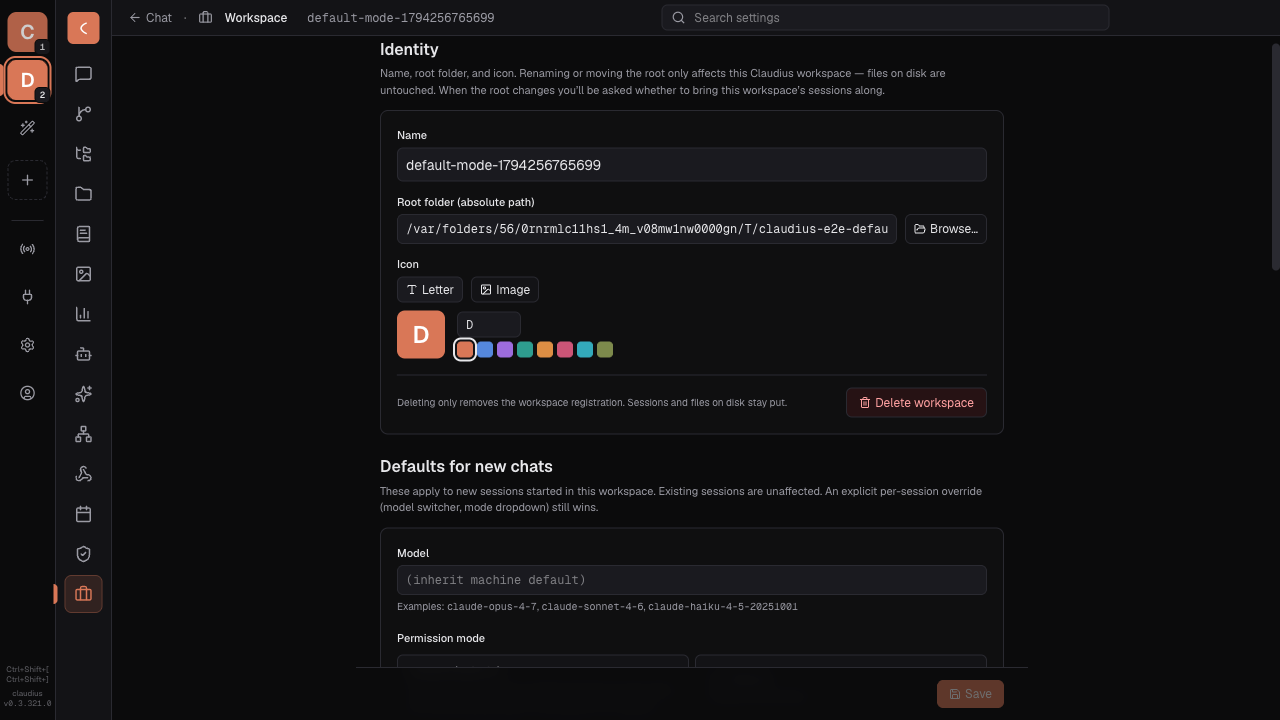
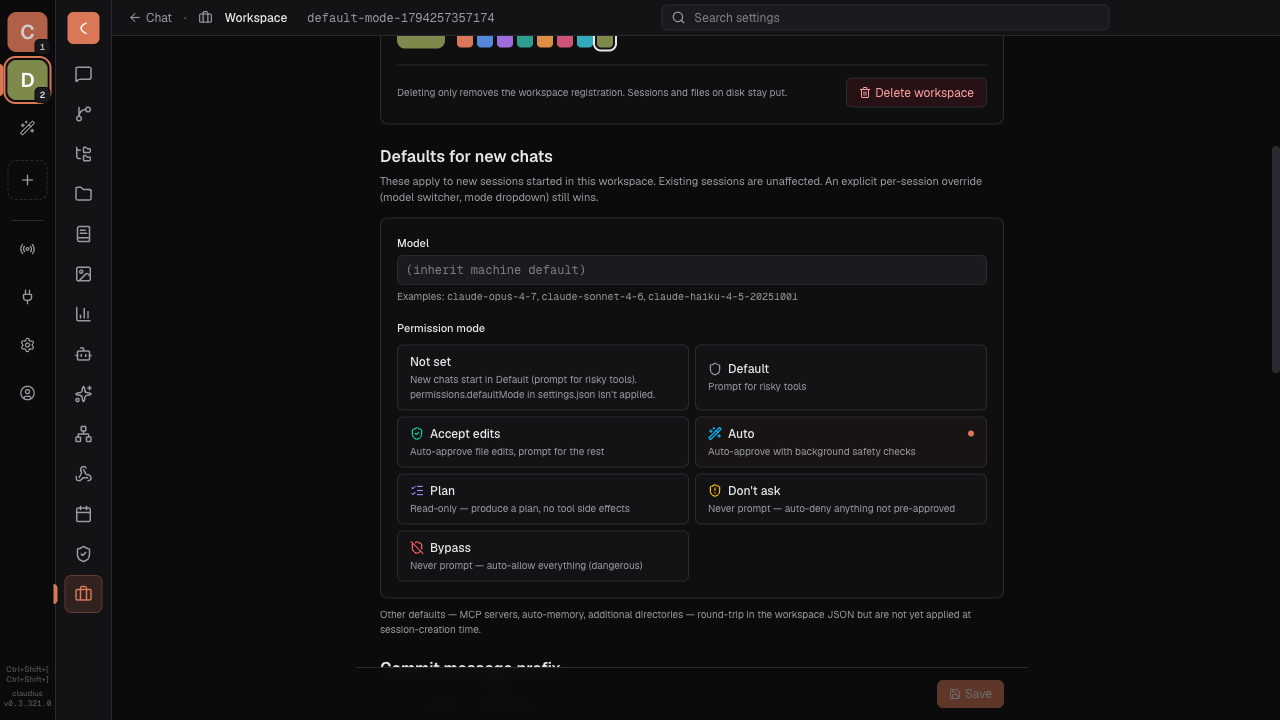
fix(cc-parity): [2.1.321] label the unset workspace mode 'Not set' (it starts chats in Default)
'Default (built-in)' sat next to the 'Default' radio and read as a duplicate.
The screenshot is centred on the radios, below the sticky save bar.

diff --git a/tests/e2e/cc-parity-2.1.321-default-permission-mode.spec.ts b/tests/e2e/cc-parity-2.1.321-default-permission-mode.spec.ts
@@ -9,7 +9,8 @@
  *   - the workspace settings page's "Inherit (default) · Use the machine-level
  *     setting" actually gives Default, because Claudius always passes an
  *     explicit mode and never reads `permissions.defaultMode`.
- * Both now say what happens.
+ * Both now say what happens ("auto (Claudius default)" / "Not set · New chats
+ * start in Default …").
  *
  * Drives the real create form, the real `/api/workspaces` (a scratch
  * workspace in a temp folder) and the real workspace settings page.
@@ -39,7 +40,7 @@ test.describe("default permission mode labels (CC 2.1.321 parity)", () => {
     await expect(select.locator("option", { hasText: "(inherit)" })).toHaveCount(0);
   });
 
-  test("an unset workspace mode is labelled as the built-in Default it gives", async ({ page, baseURL }) => {
+  test("an unset workspace mode says new chats start in Default", async ({ page, baseURL }) => {
     const root = await fs.mkdtemp(join(tmpdir(), "claudius-e2e-defaultmode-"));
     // Created without a permissionMode, exactly as the form's unset option does.
     const created = await page.request.post(`${baseURL}/api/workspaces`, {
@@ -53,9 +54,9 @@ test.describe("default permission mode labels (CC 2.1.321 parity)", () => {
       await page.request.post(`${baseURL}/api/workspaces/${ws.id}/select`);
 
       await page.goto(`/${ws.id}/workspace`);
-      const unset = page.getByRole("radio", { name: /Default \(built-in\)/ });
+      const unset = page.getByRole("radio", { name: /^Not set/ });
       await expect(unset).toBeVisible({ timeout: 30_000 });
-      await expect(unset).toContainText("new chats start in Default");
+      await expect(unset).toContainText("New chats start in Default");
       await expect(unset).toContainText("permissions.defaultMode in settings.json isn't applied");
       await expect(page.getByRole("radio", { name: /Inherit \(default\)/ })).toHaveCount(0);
       await expect(page.getByText("Use the machine-level setting.")).toHaveCount(0);
@@ -63,7 +64,8 @@ test.describe("default permission mode labels (CC 2.1.321 parity)", () => {
       await expect(page.getByRole("radio", { name: /^Auto/ })).toHaveAttribute("aria-checked", "true");
       await expect(unset).toHaveAttribute("aria-checked", "false");
 
-      await unset.scrollIntoViewIfNeeded();
+      // Centre it: the page's sticky save bar covers the bottom of the fold.
+      await unset.evaluate((el) => el.scrollIntoView({ block: "center" }));
       await page.waitForTimeout(200);
       await page.screenshot({ path: resolve(SHOTS_DIR, "default-permission-mode.png"), fullPage: false });
     } finally {

diff --git a/app/[workspaceId]/workspace/page.tsx b/app/[workspaceId]/workspace/page.tsx
@@ -666,8 +666,8 @@ export default function WorkspacePage() {
                         // mode new chats actually get. Unset, Claudius passes
                         // its own "default" (session.ts) and never reads
                         // permissions.defaultMode, so "machine-level" was wrong.
-                        label="Default (built-in)"
-                        description="Not set: new chats start in Default (prompt for risky tools). permissions.defaultMode in settings.json isn't applied."
+                        label="Not set"
+                        description="New chats start in Default (prompt for risky tools). permissions.defaultMode in settings.json isn't applied."
                       />
                       {PERMISSION_MODE_ORDER.map((m) => {
                         const meta = PERMISSION_MODE_META[m];
